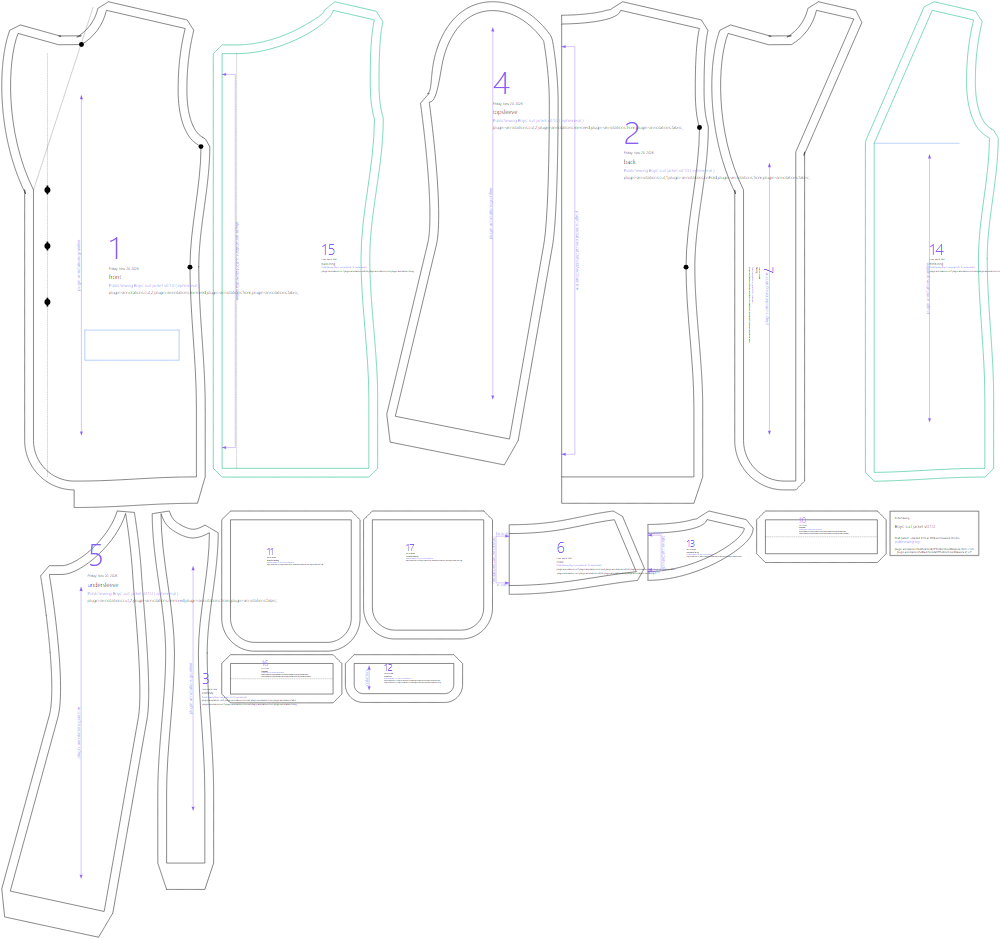
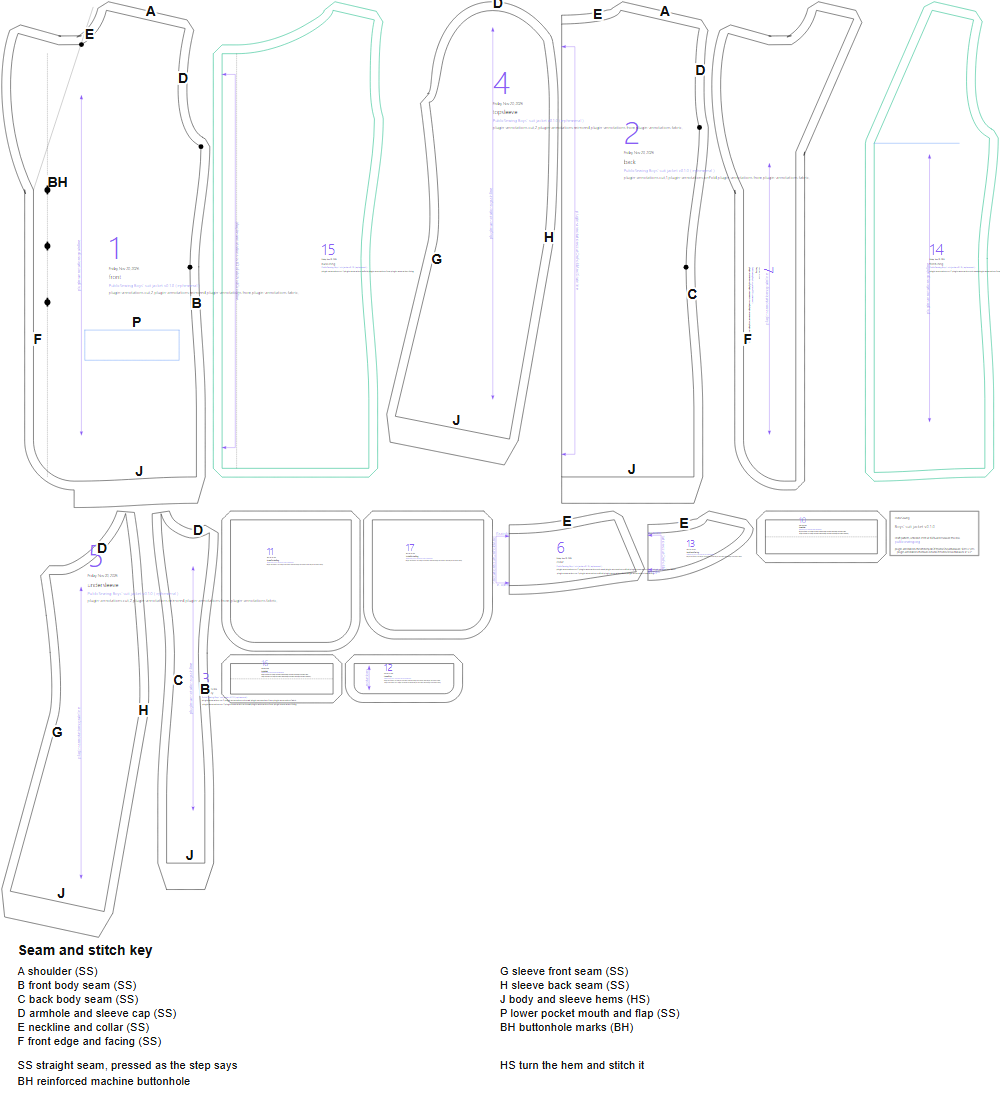
Map the boys' suit jacket on the pantry jacket's anchors; Eton inherits
Its lower pockets gain the flap piece; the buttonhole code is optional, since
the Eton jacket can be drafted with no buttons.

diff --git a/designs/boys-suit-jacket/BRIEF.md b/designs/boys-suit-jacket/BRIEF.md
@@ -51,4 +51,14 @@ lower pockets' flaps and bags, and the jacket's lining (back-neck facing, front 
 linings, inside pocket; `lining` and `insidePockets`, on by default as on the jacket).
 
 ## Construction
-As the jacket's brief, with no vent.
+
+Letters are the seam and placement codes on the pattern map; numbers are printed on the pieces. **SS** straight seam pressed as the step says, **HS** hem stitch, **BH** machine buttonhole. The order follows the jacket's, with no vent.
+
+1. Lower pockets at the mouths **P** on the fronts **1**: make up each flap **12**, then the welt **10** and bag **11** below it; stitch, cut the mouth, turn the welt through and the flap down, and close the bag.
+2. Join each front **1** to its side body **3** at **B**, then the side bodies to the back **2** at **C**. Press the seams open.
+3. Sew the shoulders **A** of the fronts **1** and back **2**, and press them open.
+4. Sew the collar **6** to the neckline **E** of the fronts **1** and back **2**, with the back-neck facing **13** behind it, then the facings **7** to the front edges **F**. Turn and press.
+5. Assemble each sleeve: join the top sleeve **4** to the under sleeve **5** at **G** and **H**, and press open.
+6. Set each sleeve (**4**, **5**) into its armhole **D** across the front **1**, side body **3** and back **2**; press toward the sleeve.
+7. Make the lining from the front and back linings **14**, **15**, with the inside welt **16** and bag **17** if fitted, and attach it, leaving an opening to turn; close it after turning and pressing.
+8. Turn and stitch the hems **J** of the body (**1**, **2**, **3**) and sleeves (**4**, **5**). Work the buttonholes **BH** on the fronts **1** and sew on the buttons.
